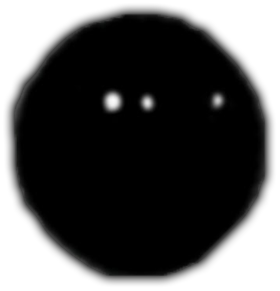
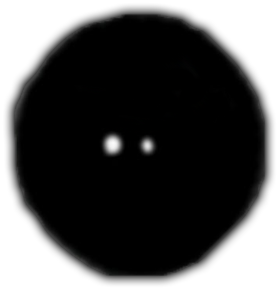
ajout cover

diff --git a/galerie.html b/galerie.html
@@ -9,19 +9,19 @@
     <script>
         $(document).ready(function() {
             
+            const EYE_WIDTH = 190;
+            const EYE_HEIGHT = 90;
+            
             let column = 0;
             let row = 0;
 
             let wWindow = window.innerWidth; // browser width
             let hWindow = window.innerHeight;
 
-            const EYE_WIDTH = wWindow*0.065;
-            const EYE_HEIGHT = EYE_WIDTH;
-
             while (hWindow/EYE_HEIGHT > row) {
                 while (wWindow/EYE_WIDTH > column) {
-                    $(".eyes-container").append('<img class="eye" src="unnamed.jpg" alt="Eye" style="width:6.5%; height:auto;top:'+row*EYE_HEIGHT+'px; left:'+column*EYE_WIDTH+'px">');
-                    $(".eyes-container").append('<img class="pupil" src="eyeball.png" alt="Pupil" style="width:2%; height:auto; top:' + (row * EYE_HEIGHT + wWindow*0.02) + 'px; left:' + (column * EYE_WIDTH + wWindow*0.0215) + 'px">');
+                    $(".eyes-container").append('<img class="eye" src="eye_bw.png" alt="Eye" style="top:'+row*EYE_HEIGHT+'px; left:'+column*EYE_WIDTH+'px">');
+                    $(".eyes-container").append('<img class="pupil" src="pupil.png" alt="Pupil" style="top:' + (row * EYE_HEIGHT + 37) + 'px; left:' + (column * EYE_WIDTH + 94) + 'px">');
                     column++;
                 }
                 column = 0;
@@ -43,15 +43,11 @@
                     const deltaX = mouseX - eyeCenterX;
                     const deltaY = mouseY - eyeCenterY;
 
-                    const ovalXRadius = eyeRect.width / 3.5; // Rayon horizontal
-                    const ovalYRadius = eyeRect.height / 7;   // Rayon vertical
+                    const angle = Math.atan2(deltaY, deltaX);
+                    const distance = Math.min(eyeRect.width / 8.5, eyeRect.height / 8.5);
 
-                    // Calculer l'angle de la souris par rapport au centre de l'œil
-                    const angle = Math.atan2(deltaY / ovalYRadius, deltaX / ovalXRadius);
-
-                    // Calculer les nouvelles coordonnées x et y pour la pupille
-                    const pupilX = ovalXRadius * Math.cos(angle);
-                    const pupilY = ovalYRadius * Math.sin(angle);
+                    const pupilX = distance * Math.cos(angle);
+                    const pupilY = distance * Math.sin(angle);
 
                     pupil.style.transform = `translate(${pupilX}px, ${pupilY}px)`;
                 });
@@ -83,10 +79,10 @@
 </head>
 <body>
     <div class="container">
-        <a href="index.html"><h1>wldcvls</h1></a>
-        <div class="break"></div>
-        <div class="liens"><p><a href="blender.html">blender</a></p>
-        <p><a href="galerie.html">galerie</a></p>
+        <div class="canette">
+            <a href="index.html"><h1>wldcvls</h1></a>
+            <img src="cover.png" class="canette">
+            <p>cover pour le duo acclamé itachicha slowgechi<br>en mode memphis<br>premiere cover</p>
         </div>
     </div>
     <div class="eyes-container">

diff --git a/blender.html b/blender.html
@@ -82,7 +82,7 @@
         <div class="canette">
             <a href="index.html"><h1>wldcvls</h1></a>
             <img src="canette.gif" class="canette">
-            <p>soda can<br>made with the help of intranetgirl's tutorial<br>inspired by weirdcore/webcore</p>
+            <p>soda can<br>made with the help of intranetgirl's tutorial<br>inspired by weirdcore/webcore<br>premier rendu blender</p>
         </div>
     </div>
     <div class="eyes-container">
